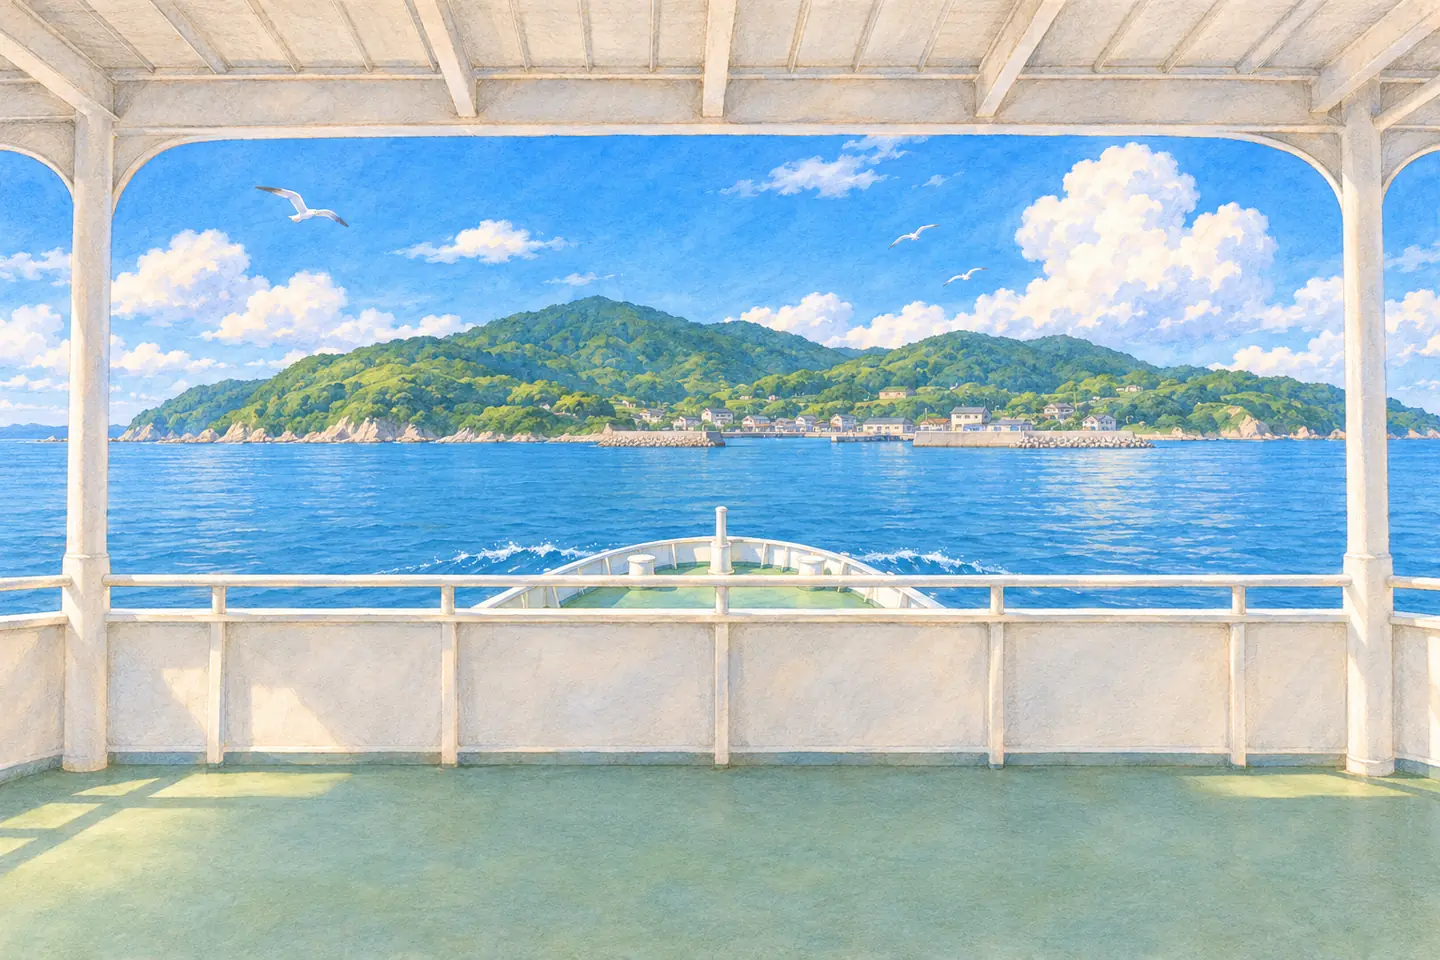
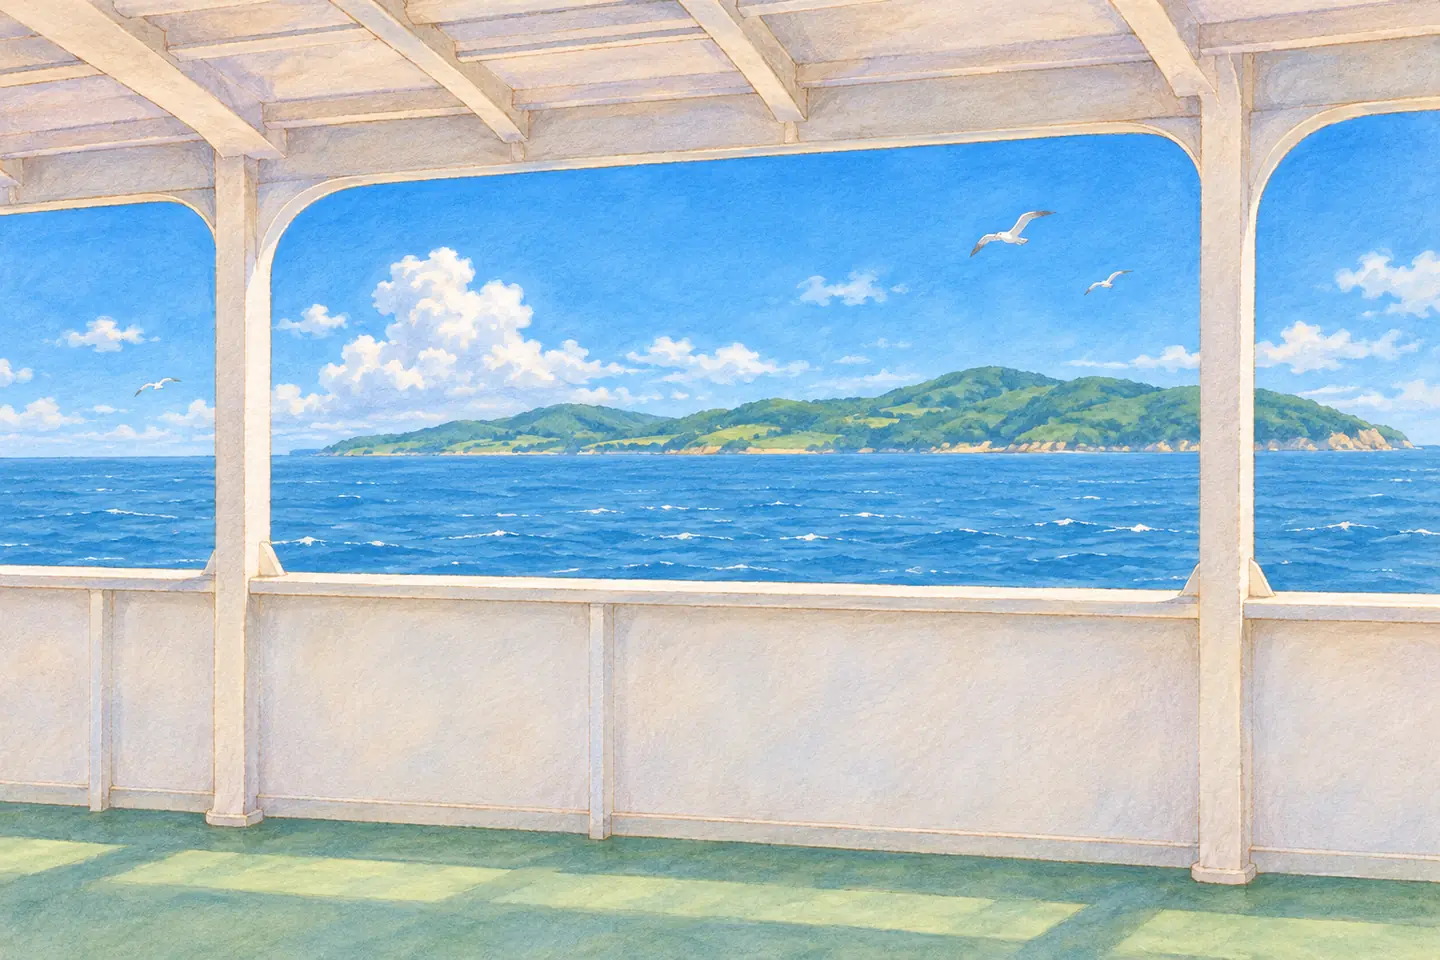
【デモ】乗船・フェリーの絵を直す、天真名井の絵

diff --git a/demo/index.html b/demo/index.html
@@ -2582,7 +2582,7 @@ const QS = new URLSearchParams(location.search);
 
 /* バージョンとこうしん情報：公開するたびに番号を上げる（ふだんは +0.0.1、大きなこうしんは +0.1） */
 const GAME_VER = '0.19.1';
-const BUILD = '20261116-2221';   // 公開するたびに tools/bump.sh が日時を書きこむ（version.json と同じ値）
+const BUILD = '20261116-2300';   // 公開するたびに tools/bump.sh が日時を書きこむ（version.json と同じ値）
 const CHANGELOG = [
   {v:'0.19.1', date:'2026-11-16', items:[
     '「じゆうに育てる」の ずかんの上に、しるし（🦋虫そだて見ならい・名人・虫はかせ）と、つぎの しるしまで あと何しゅるいかを出すようにした。羽化して しるしが上がったときも おしらせする',
@@ -6536,7 +6536,7 @@ async function tanabataStalls0(){
       await play(r.got.includes(1) ? 'けんた：1等！？ まじかよ！' : r.got.length ? 'けんた：おれ、ラムネばっかりだった。…いっしょに飲もうぜ。' : 'けんた：くじは、また来年だな。'); }
     save(); }
 }
-const CG = ['kansu', 'fusha', 'ame', 'hotaru', 'ferry', 'amanogawa', 'tenbodai', 'matsuri', 'taifu', 'eki', 'yamaasa', 'takamiya', 'yohaisho', 'happyo', 'gakko', 'obaa', 'tosho', 'jousen', 'oshimako', 'note', 'ranou', 'hikari', 'fuka', 'kinsora', 'ending', 'yume', 'morifuka'];   // 2026-11-14：序章の光・ふ化・金色の虫が海へ・エンディング・かけらの夢・森で生まれていた   // img/ui/ev/キー.webp（gakko・obaa・tosho は ほかの場所の絵。2026-11-14）
+const CG = ['manai', 'manai_yoru', 'kansu', 'fusha', 'ame', 'hotaru', 'ferry', 'amanogawa', 'tenbodai', 'matsuri', 'taifu', 'eki', 'yamaasa', 'takamiya', 'yohaisho', 'happyo', 'gakko', 'obaa', 'tosho', 'jousen', 'oshimako', 'note', 'ranou', 'hikari', 'fuka', 'kinsora', 'ending', 'yume', 'morifuka'];   // 2026-11-14：序章の光・ふ化・金色の虫が海へ・エンディング・かけらの夢・森で生まれていた   // img/ui/ev/キー.webp（gakko・obaa・tosho は ほかの場所の絵。2026-11-14）
 function cgShow(k){ let e = $('cgLayer');
   if(!k || k === 'off' || !CG.includes(k)){ if(e){ e.remove(); otoScene(); } return; }
   if(e) e.classList.remove('atBg');
@@ -7130,6 +7130,7 @@ const STORY_DAY = {
       ＠絵 oshimako
       ＊港で、けんたと漁師のじいちゃんが待っていた。
       ${eggLeft() ? 'けんた：はやく、たまごのところへ行こうぜ！' : 'けんた：生まれたんだ…！ 金色じゃん！'}
+      ＠絵 manai
       ＊夕方、たまごを見つけた、中津宮のそばの、天真名井へ向かう階段の近くへ。`);
     if(k){ let a = await choose('ぼく（ふつう）：…ここで、かえすんだね。', ['森にかえす', 'もう少しだけ、そばにいてほしい'], 'boku');
       if(a === 1) await play('ぼく（なみだ）：…もう少しだけ、そばにいてほしい。\nおとうさん（にっこり）：その気持ちが、育てたってことなんだよ。');
@@ -7267,7 +7268,8 @@ const STORY_EVE = {
       ＊夜8時、中津宮の織女神社の前で、七夕祭。「${S.story.flags.wish || '虫が元気に育ちますように'}」の短冊も、おさめられた。`); cgShow('off'); storyGoal('七夕祭の夜');
     await play('＊お祭りのあと、天の川のそば。手おけの水をのぞくと、水面に、金色の光がゆらっとうつった。');
     await choose('…！', ['光のほうを見る', 'おとうさんをよぶ'], 'boku_surprise');
-    await play(`＊おとうさんといっしょに、光のほうへ。境内の横の、天真名井（あまのまない）へ向かう階段の近く。
+    await play(`＠絵 manai_yoru
+      ＊おとうさんといっしょに、光のほうへ。境内の横の、天真名井（あまのまない）へ向かう階段の近く。
       ＊落ち葉の下に、金色にかすかに光る、大きなたまご。
       おとうさん（しんぱい）：…見たことがない。カブトムシのなかまのたまごに、にているけど…。`);
     await play('おとうさん（教える）：ほんとうは、この島のものは、この島にあるのがいちばんだ。//でも、このたまご…落ち葉がかわいて、このままだとひからびてしまいそうだ。');
